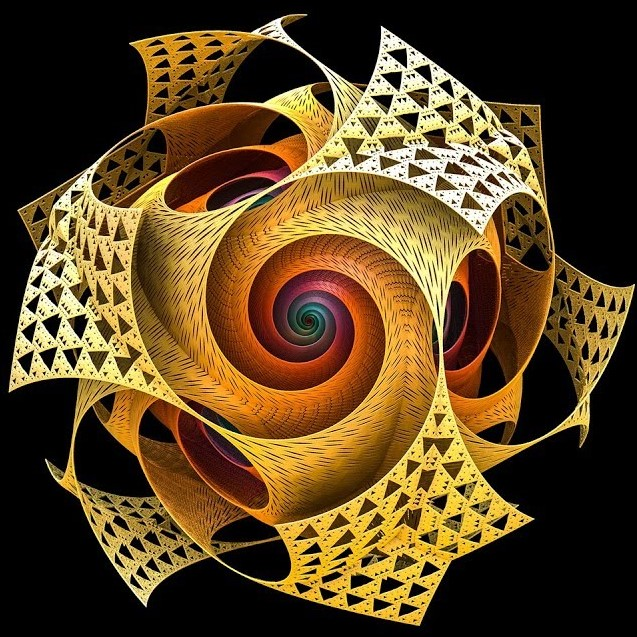
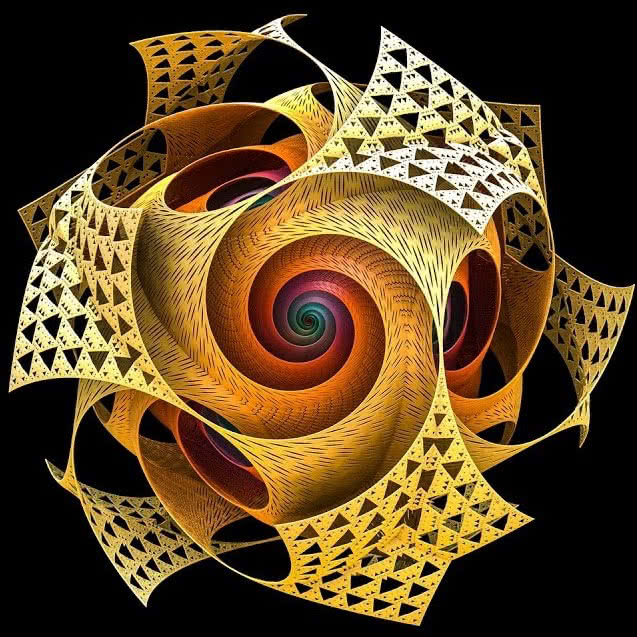
image optimisation

diff --git a/source/css/pace.css b/source/css/pace.css
@@ -1,0 +1,130 @@
+.pace.pace-inactive {
+  display: none;
+}
+
+.pace {
+  -webkit-pointer-events: none;
+  pointer-events: none;
+
+  -webkit-user-select: none;
+  -moz-user-select: none;
+  user-select: none;
+
+  z-index: 2000;
+  position: fixed;
+  height: 60px;
+  width: 100px;
+  margin: auto;
+  top: 0;
+  left: 0;
+  right: 0;
+  bottom: 0;
+}
+
+.pace .pace-progress {
+  z-index: 2000;
+  position: absolute;
+  height: 60px;
+  width: 100px;
+
+  -webkit-transform: translate3d(0, 0, 0) !important;
+  -ms-transform: translate3d(0, 0, 0) !important;
+  transform: translate3d(0, 0, 0) !important;
+}
+
+.pace .pace-progress:before {
+  content: attr(data-progress-text);
+  text-align: center;
+  color: #fff;
+  background: #00ff00;
+  border-radius: 50%;
+  font-family: "Helvetica Neue", sans-serif;
+  font-size: 14px;
+  font-weight: 100;
+  line-height: 1;
+  padding: 20% 0 7px;
+  width: 50%;
+  height: 40%;
+  margin: 10px 0 0 30px;
+  display: block;
+  z-index: 999;
+  position: absolute;
+}
+
+.pace .pace-activity {
+  font-size: 15px;
+  line-height: 1;
+  z-index: 2000;
+  position: absolute;
+  height: 60px;
+  width: 100px;
+
+  display: block;
+  -webkit-animation: pace-theme-center-atom-spin 2s linear infinite;
+  -moz-animation: pace-theme-center-atom-spin 2s linear infinite;
+  -o-animation: pace-theme-center-atom-spin 2s linear infinite;
+  animation: pace-theme-center-atom-spin 2s linear infinite;
+}
+
+.pace .pace-activity {
+  border-radius: 50%;
+  border: 5px solid #00ff00;
+  content: ' ';
+  display: block;
+  position: absolute;
+  top: 0;
+  left: 0;
+  height: 60px;
+  width: 100px;
+}
+
+.pace .pace-activity:after {
+  border-radius: 50%;
+  border: 5px solid #00ff00;
+  content: ' ';
+  display: block;
+  position: absolute;
+  top: -5px;
+  left: -5px;
+  height: 60px;
+  width: 100px;
+
+  -webkit-transform: rotate(60deg);
+  -moz-transform: rotate(60deg);
+  -o-transform: rotate(60deg);
+  transform: rotate(60deg);
+}
+
+.pace .pace-activity:before {
+  border-radius: 50%;
+  border: 5px solid #00ff00;
+  content: ' ';
+  display: block;
+  position: absolute;
+  top: -5px;
+  left: -5px;
+  height: 60px;
+  width: 100px;
+
+  -webkit-transform: rotate(120deg);
+  -moz-transform: rotate(120deg);
+  -o-transform: rotate(120deg);
+  transform: rotate(120deg);
+}
+
+@-webkit-keyframes pace-theme-center-atom-spin {
+  0%   { -webkit-transform: rotate(0deg) }
+  100% { -webkit-transform: rotate(359deg) }
+}
+@-moz-keyframes pace-theme-center-atom-spin {
+  0%   { -moz-transform: rotate(0deg) }
+  100% { -moz-transform: rotate(359deg) }
+}
+@-o-keyframes pace-theme-center-atom-spin {
+  0%   { -o-transform: rotate(0deg) }
+  100% { -o-transform: rotate(359deg) }
+}
+@keyframes pace-theme-center-atom-spin {
+  0%   { transform: rotate(0deg) }
+  100% { transform: rotate(359deg) }
+}
